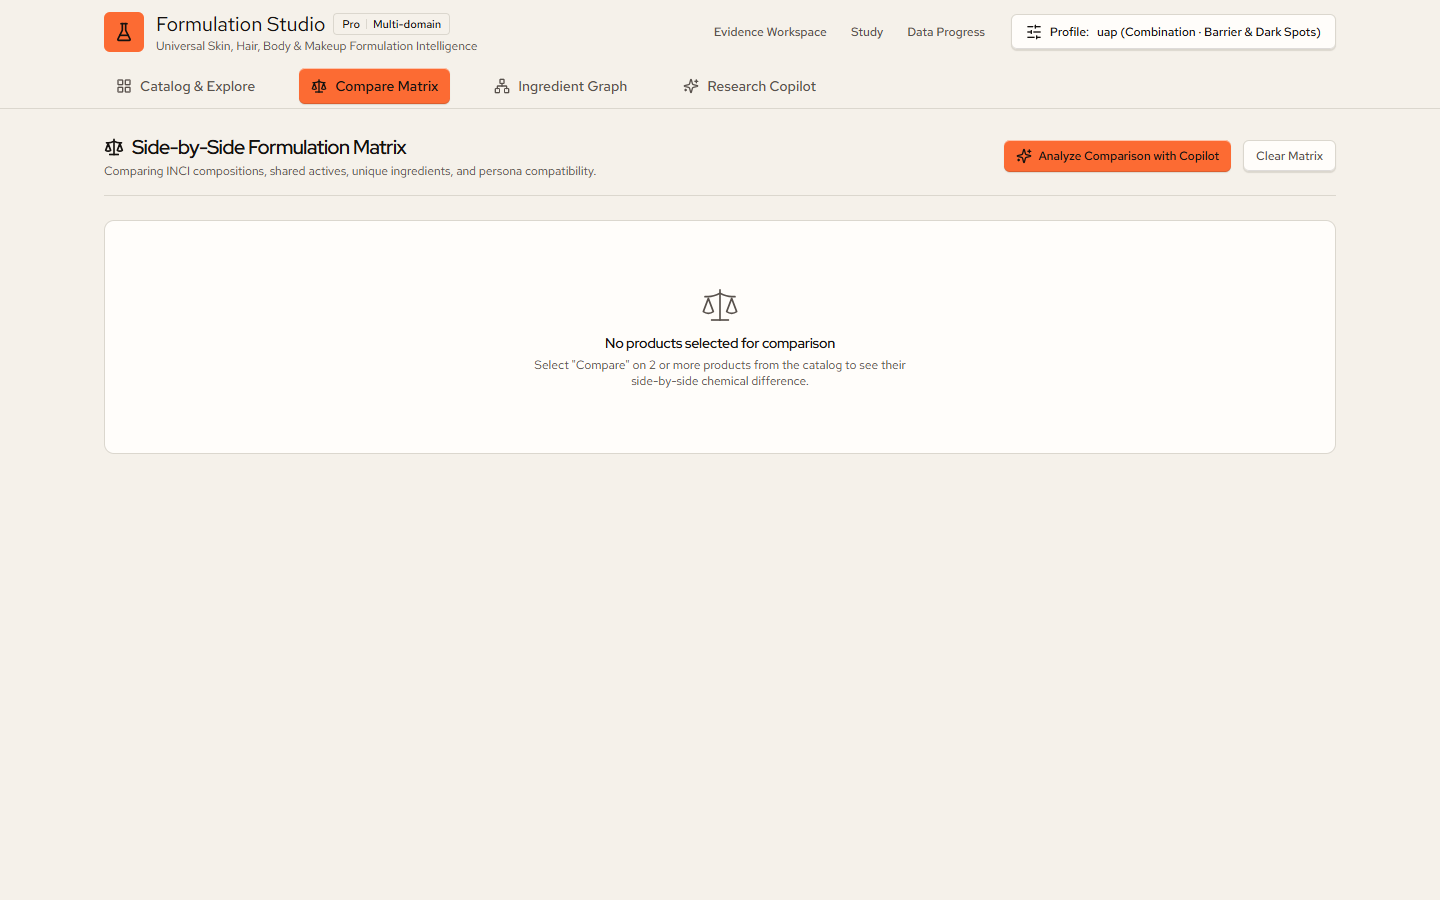
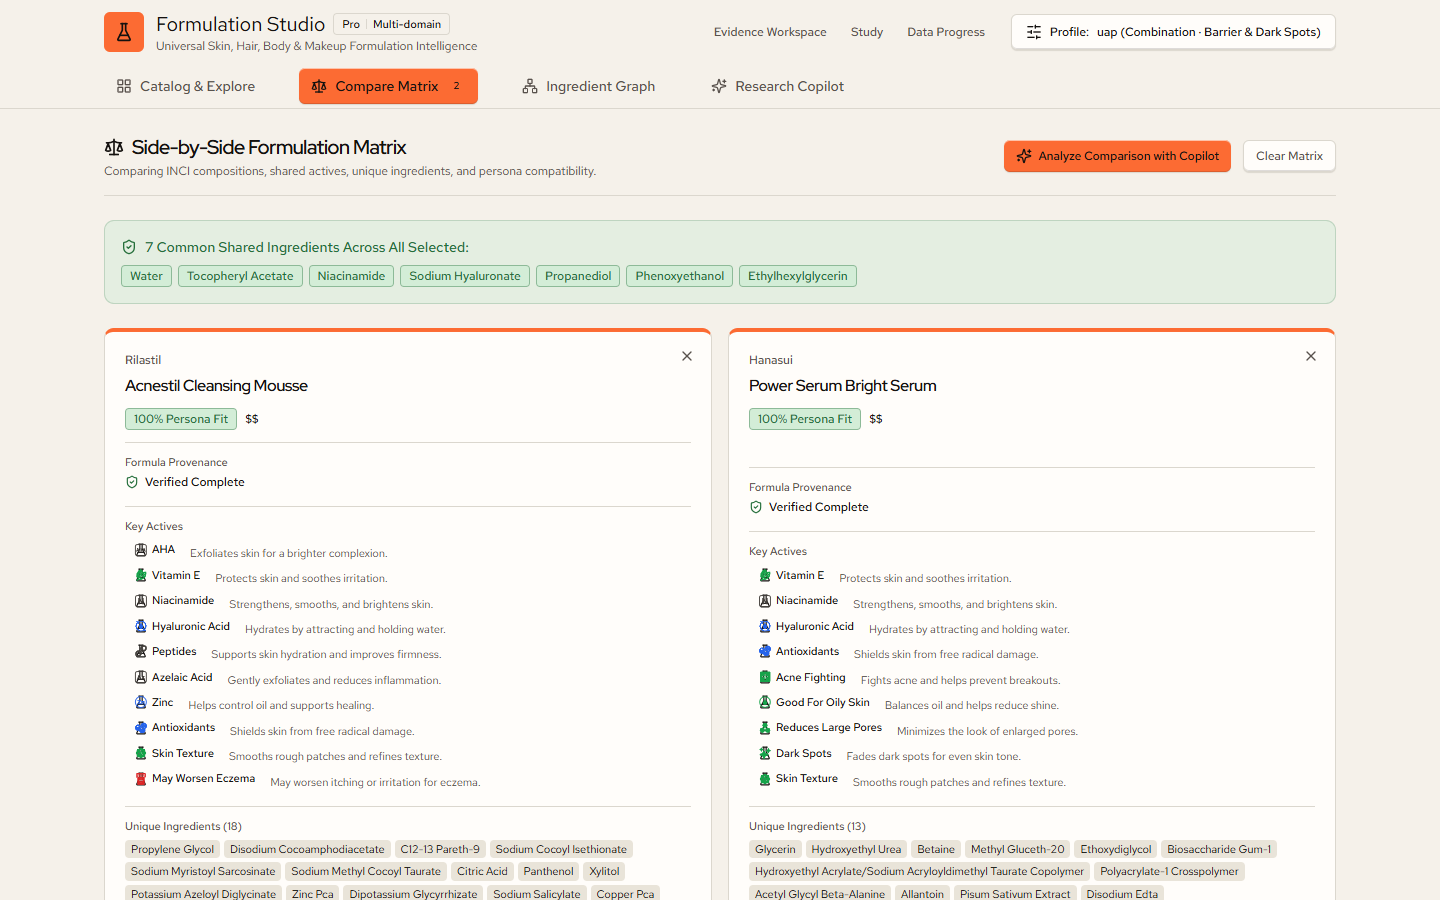
docs(redesign): user-review evidence — interactive-state captures, Picks outcome
The gate battery's blind spot, closed with evidence: the Furrow review
had rendered only the 8 routes at rest, so the compare matrix's raw-JSON
Key Actives survived two rethemes. .redesign/furrow-after/ now carries
the interactive states alongside the route captures: explore with the
product detail modal open, the persona drawer, the compare matrix with a
seeded two-product tray (post-fix), and the 390px strip row. Picks sweep
row records the user-review round.

Certification after 974ae98: check.py all offline checks, ui_smoke
all_passed (5/5 fixture cases), sloplint 0 FAIL / 0 REFLEX on 8 routes,
ledger + semantics green, build clean.

diff --git a/.redesign/furrow-picks.md b/.redesign/furrow-picks.md
@@ -11,4 +11,4 @@
 - **Material** · real: the live catalog record (2,502 indexed / 576 full INCI / 1,490 dossiers from `/api/stats`, same source Explore uses), the formulation ledger rows, evidence verdicts, persona presets · pictures: none (app screens + a ledger landing — the product IS the data; Floor 46a: no invented metrics, no testimonials, no logos) · absent: photographs, quotes, survey map imagery on the landing
 - **Landing** · hero posture per Furrow "Field Record" range → the ruled ledger hero: headline + one PRODUCT.md sentence + two moulded CTAs (Explore formulations → /explore, GitHub → the real repo URL) + the field band of live figures · "The book as an index": ink rule over three live rows · four surfaces as notebook cards (`--radius-entry` 14px, 1px ink ring) · ~130 words, no eyebrow, no testimonial, no invented figure
 - **Pre-emit critique** · P4 H4 E4 S4 R5 V4 · weakest: E — every verdict pair re-computed to ≥ 4.5:1 on light manila before shipping (Floor 40/41; asserted by tests/check_ui_semantics.js)
-- **Sweep** · outcome: sloplint kept-sweep (render, 8 routes) 0 FAIL, 0 REFLEX after fixes (was 6 REFLEX at baseline: 39b control heights fixed to the 32px app band, 75 running text to 12px; 49b/72 waived on the stamp) · kept 10/10 links, 8/8 fields, 100/100 handlers, 59/60 headings (brand wordmark demoted from h1, stamp-recorded), 21/24 figures (live clock + live latency, stamp-recorded) · gate.mjs 20→18 FAIL (figure scale + badge edge fixed; 18 marketing-structural dispositions recorded in .taste-skill/waivers.json) · impeccable: 1 finding = the manila ground itself (by-request theme) · repo gates green: check_ui_ledger, check_ui_semantics (26 assertions, min pair 5.01:1), scripts/check.py, npm build, ui_smoke, sloplint · EGM trio: 0 CRITICAL; 2 HIGH + 4 MEDIUM + LOWs fixed (verdict-tag demotion, dead outline hover, token dedup, doc accuracy), rest dispositioned · compare.html + `.redesign/furrow-after/` delivered
+- **Sweep** · outcome: sloplint kept-sweep (render, 8 routes) 0 FAIL, 0 REFLEX after fixes (was 6 REFLEX at baseline: 39b control heights fixed to the 32px app band, 75 running text to 12px; 49b/72 waived on the stamp) · kept 10/10 links, 8/8 fields, 100/100 handlers, 59/60 headings (brand wordmark demoted from h1, stamp-recorded), figures net of the raw-JSON debug digits the old matrix printed (stamp-recorded) · gate.mjs 20→18 FAIL (figure scale + badge edge fixed; 18 marketing-structural dispositions recorded in .taste-skill/waivers.json) · impeccable: 1 finding = the manila ground itself (by-request theme) · repo gates green: check_ui_ledger, check_ui_semantics (26 assertions, min pair 5.01:1), scripts/check.py, npm build, ui_smoke, sloplint · EGM trio: 0 CRITICAL; 2 HIGH + 4 MEDIUM + LOWs fixed, rest dispositioned · **user-review round (post-gates, the real catch):** the battery never rendered interactive states, so the compare matrix's raw-JSON Key Actives survived two rethemes — fixed with local icons (41 fetched SVGs, 78 KB, manifest provenance), unified bare strips, neutralized ingredient chips; interactive-state captures (modal, drawer, compare-with-tray, 390) now part of `.redesign/furrow-after/` so the next review can't repeat the miss · compare.html + `.redesign/furrow-after/` delivered
